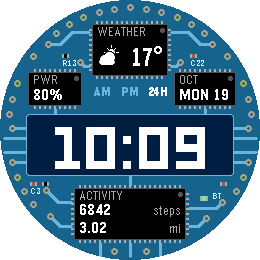
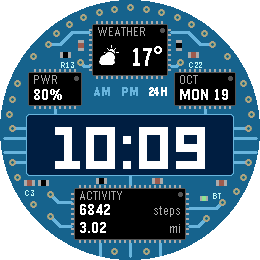
Groessere Bauteile, Emery dichter bestueckt
Widerstaende und Kondensatoren 11 x 6 statt 7 x 4 px, auf Emery 17 statt
5 Teile, meist direkt auf den Leiterbahnen, dazu ein SOT-23-Transistor.
Randbohrungen auf Gabbro weichen jetzt auch Bauteilen aus.

diff --git a/src/c/circuit.c b/src/c/circuit.c
@@ -70,8 +70,12 @@ static const Theme THEMES[] = {
 #define TRACE_W          2
 #define VIA_R            3
 #define VIA_HOLE_R       1
-#define SMD_LONG         7
-#define SMD_SHORT        4
+#define SMD_LONG         11
+#define SMD_SHORT        6
+#define SMD_END          3      // Metallkappe an beiden Enden
+#define SOT_W            9
+#define SOT_H            5
+#define SOT_LEG          2
 #define LED_W            8
 #define LED_H            5
 #define ROW_H            18
@@ -124,6 +128,7 @@ static const Theme THEMES[] = {
 
 #define SMD_CAP          0
 #define SMD_RES          1
+#define SMD_SOT          2      // Transistor im SOT-23-Gehaeuse, Lage egal
 
 typedef struct { int16_t x, y; uint8_t kind; bool vertical; } Smd;
 typedef struct { int16_t x, y; const char *text; } Silk;
@@ -132,23 +137,35 @@ typedef struct { int16_t x, y; const char *text; } Silk;
 static const int16_t TRACES[] = {
   93, 22,  102, 22,  108, 16,  134, 16,  TRACE_VIA,
   93, 46,  100, 46,  106, 40,  130, 40,  TRACE_VIA,
-  93, 58,  98, 58,  98, 66,  TRACE_OPEN,
   12, 3,  134, 3,  TRACE_VIA,
   7, 24,  3, 28,  3, 62,  TRACE_VIA,
   4, 139,  78, 139,  84, 145,  84, 196,  86, 198,  86, 226,  TRACE_OPEN,
   108, 139,  188, 139,  TRACE_VIA,
   192, 30,  197, 30,  197, 64,  TRACE_VIA,
 };
+// Moeglichst auf den Leiterbahnen, wie auf einer echten Platine
 static const Smd SMDS[] = {
-  { 98, 56, SMD_CAP, false },
-  { 108, 56, SMD_RES, false },
-  { 1, 100, SMD_CAP, true },
-  { 1, 116, SMD_RES, true },
-  { 96, 135, SMD_CAP, false },
+  { 30, 0, SMD_RES, false },
+  { 66, 0, SMD_CAP, false },
+  { 115, 13, SMD_RES, false },
+  { 112, 37, SMD_CAP, false },
+  { 96, 30, SMD_SOT, false },
+  { 96, 50, SMD_CAP, false },
+  { 96, 60, SMD_RES, false },
+  { 1, 78, SMD_CAP, true },
+  { 1, 96, SMD_RES, true },
+  { 1, 114, SMD_CAP, true },
+  { 22, 136, SMD_CAP, false },
+  { 56, 136, SMD_RES, false },
+  { 122, 136, SMD_RES, false },
+  { 160, 136, SMD_CAP, false },
+  { 194, 38, SMD_RES, true },
+  { 194, 150, SMD_CAP, true },
+  { 194, 196, SMD_RES, true },
 };
 static const Silk SILKS[] = {
-  { 112, 5, "R21" },
-  { 98, 59, "C9" },
+  { 113, 3, "R21" },
+  { 109, 51, "C9" },
 };
 #else
 static const int16_t TRACES[] = {
@@ -164,7 +181,7 @@ static const int16_t TRACES[] = {
   234, 138,  256, 138,  TRACE_OPEN,
   234, 152,  256, 152,  TRACE_OPEN,
   234, 162,  248, 162,  TRACE_VIA,
-  71, 202,  58, 202,  46, 190,  TRACE_VIA,
+  71, 202,  58, 202,  50, 194,  TRACE_VIA,
   71, 226,  60, 226,  50, 216,  TRACE_VIA,
   189, 226,  198, 226,  206, 218,  TRACE_VIA,
   189, 208,  216, 208,  222, 202,  TRACE_VIA,
@@ -176,16 +193,20 @@ static const int16_t TRACES[] = {
   205, 109,  205, 114,  TRACE_OPEN,
 };
 static const Smd SMDS[] = {
-  { 62, 54, SMD_RES, false },
-  { 190, 54, SMD_CAP, false },
-  { 30, 182, SMD_CAP, false },
-  { 42, 182, SMD_RES, false },
-  { 220, 182, SMD_CAP, false },
+  { 60, 52, SMD_RES, false },
+  { 188, 52, SMD_CAP, false },
+  { 78, 40, SMD_CAP, true },
+  { 176, 40, SMD_RES, true },
+  { 24, 180, SMD_CAP, false },
+  { 38, 180, SMD_RES, false },
+  { 216, 180, SMD_CAP, false },
+  { 96, 178, SMD_RES, false },
+  { 152, 178, SMD_CAP, false },
 };
 static const Silk SILKS[] = {
-  { 62, 57, "R13" },
-  { 190, 57, "C22" },
-  { 30, 185, "C3" },
+  { 60, 59, "R13" },
+  { 188, 59, "C22" },
+  { 24, 187, "C3" },
 };
 #endif
 
@@ -273,18 +294,37 @@ static void draw_traces(GContext *ctx, const Theme *t) {
   }
 }
 
+static GRect smd_rect(const Smd *s) {
+  if (s->kind == SMD_SOT) return GRect(s->x, s->y - SOT_LEG, SOT_W, SOT_H + 2 * SOT_LEG);
+  return s->vertical ? GRect(s->x, s->y, SMD_SHORT, SMD_LONG)
+                     : GRect(s->x, s->y, SMD_LONG, SMD_SHORT);
+}
+
+static void draw_sot(GContext *ctx, const Smd *s) {
+  graphics_context_set_fill_color(ctx, COLOR_SMD_END);
+  graphics_fill_rect(ctx, GRect(s->x + 1, s->y + SOT_H, SOT_LEG, SOT_LEG), 0, GCornerNone);
+  graphics_fill_rect(ctx, GRect(s->x + SOT_W - 1 - SOT_LEG, s->y + SOT_H, SOT_LEG, SOT_LEG),
+                     0, GCornerNone);
+  graphics_fill_rect(ctx, GRect(s->x + (SOT_W - SOT_LEG) / 2, s->y - SOT_LEG, SOT_LEG, SOT_LEG),
+                     0, GCornerNone);
+  graphics_context_set_fill_color(ctx, COLOR_RES);
+  graphics_fill_rect(ctx, GRect(s->x, s->y, SOT_W, SOT_H), 0, GCornerNone);
+}
+
 static void draw_smds(GContext *ctx) {
   for (int i = 0; i < (int)ARRAY_LENGTH(SMDS); i++) {
     const Smd *s = &SMDS[i];
-    int w = s->vertical ? SMD_SHORT : SMD_LONG;
-    int h = s->vertical ? SMD_LONG : SMD_SHORT;
+    if (s->kind == SMD_SOT) { draw_sot(ctx, s); continue; }
+    GRect r = smd_rect(s);
     graphics_context_set_fill_color(ctx, COLOR_SMD_END);
-    graphics_fill_rect(ctx, GRect(s->x, s->y, w, h), 0, GCornerNone);
+    graphics_fill_rect(ctx, r, 0, GCornerNone);
     graphics_context_set_fill_color(ctx, s->kind == SMD_CAP ? COLOR_CAP : COLOR_RES);
     if (s->vertical) {
-      graphics_fill_rect(ctx, GRect(s->x, s->y + 2, w, h - 4), 0, GCornerNone);
+      graphics_fill_rect(ctx, GRect(r.origin.x, r.origin.y + SMD_END, r.size.w,
+                                    r.size.h - 2 * SMD_END), 0, GCornerNone);
     } else {
-      graphics_fill_rect(ctx, GRect(s->x + 2, s->y, w - 4, h), 0, GCornerNone);
+      graphics_fill_rect(ctx, GRect(r.origin.x + SMD_END, r.origin.y,
+                                    r.size.w - 2 * SMD_END, r.size.h), 0, GCornerNone);
     }
   }
 }
@@ -678,6 +718,9 @@ static void draw_edge(GContext *ctx, const Theme *t) {
     bool blocked = false;
     for (int b = 0; b < (int)ARRAY_LENGTH(blocks); b++) {
       if (near_rect(p, blocks[b], RIM_CLEARANCE)) { blocked = true; break; }
+    }
+    for (int i = 0; !blocked && i < (int)ARRAY_LENGTH(SMDS); i++) {
+      if (near_rect(p, smd_rect(&SMDS[i]), RIM_CLEARANCE)) blocked = true;
     }
     // auch nicht auf Endpunkte von Leiterbahnen
     for (int i = 0; !blocked && i + 1 < (int)ARRAY_LENGTH(TRACES); ) {
